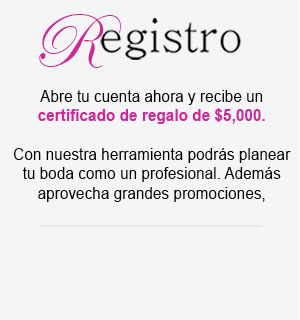
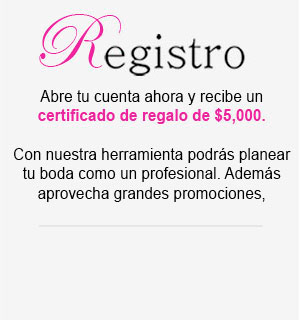
Otro avance correcciones

diff --git a/web/css/stylerodrigo.css b/web/css/stylerodrigo.css
@@ -609,8 +609,19 @@ hr{
 	margin-top: -30px!important;
 }
 
+.cajaGris{
+	width: 388px;
+	height: 220px;
+	background: #F2F2F2;
+	padding: 0 10px;
+	margin-bottom: 15px;
+}
 
-
+.puntosRosas img {
+	width: 10px;
+	margin-top: -5px;
+	margin-left: -14px;
+}
 
 
 

diff --git a/web/css/style.css b/web/css/style.css
@@ -47,9 +47,8 @@ h1{
 .registro {
 width: 300px;
 height: 320px;
- border-radius: 20px;
  background-color: #f2f2f2;
- background-image: url("../img/registro_dos.jpg");
+ background-image: url("../img/registro_tres.jpg");
 }
 
 .item{
